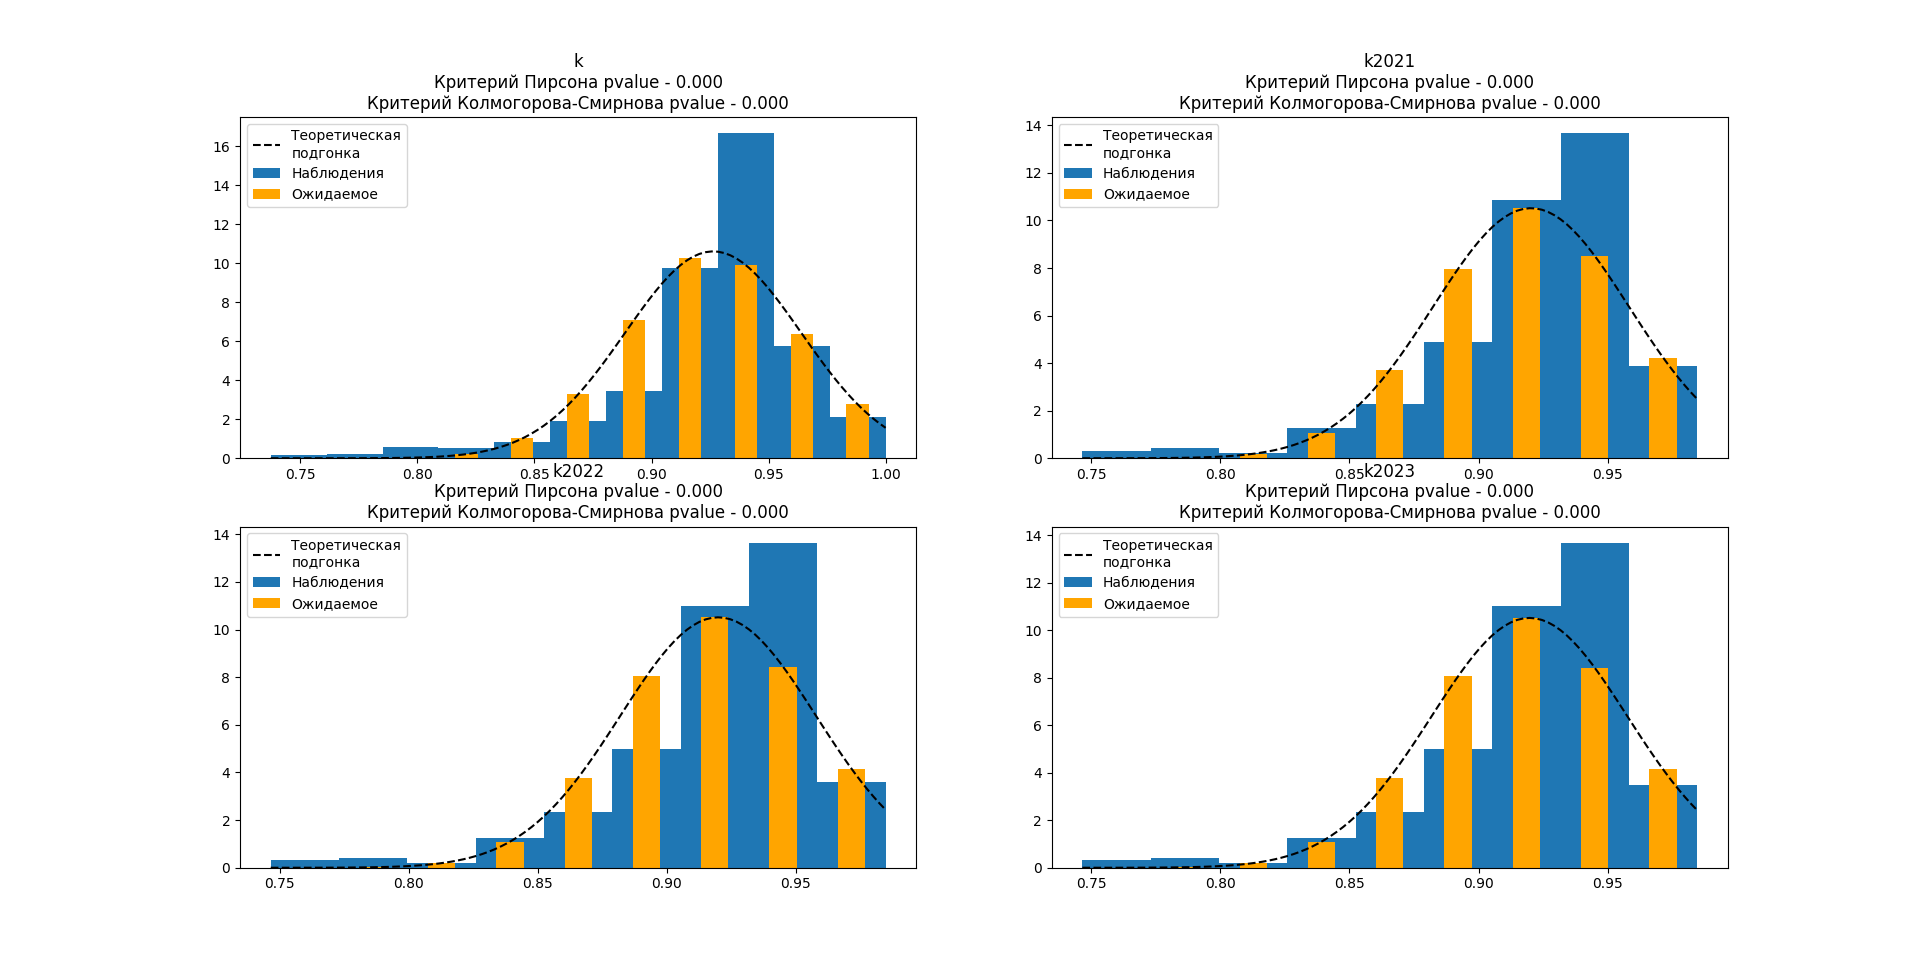
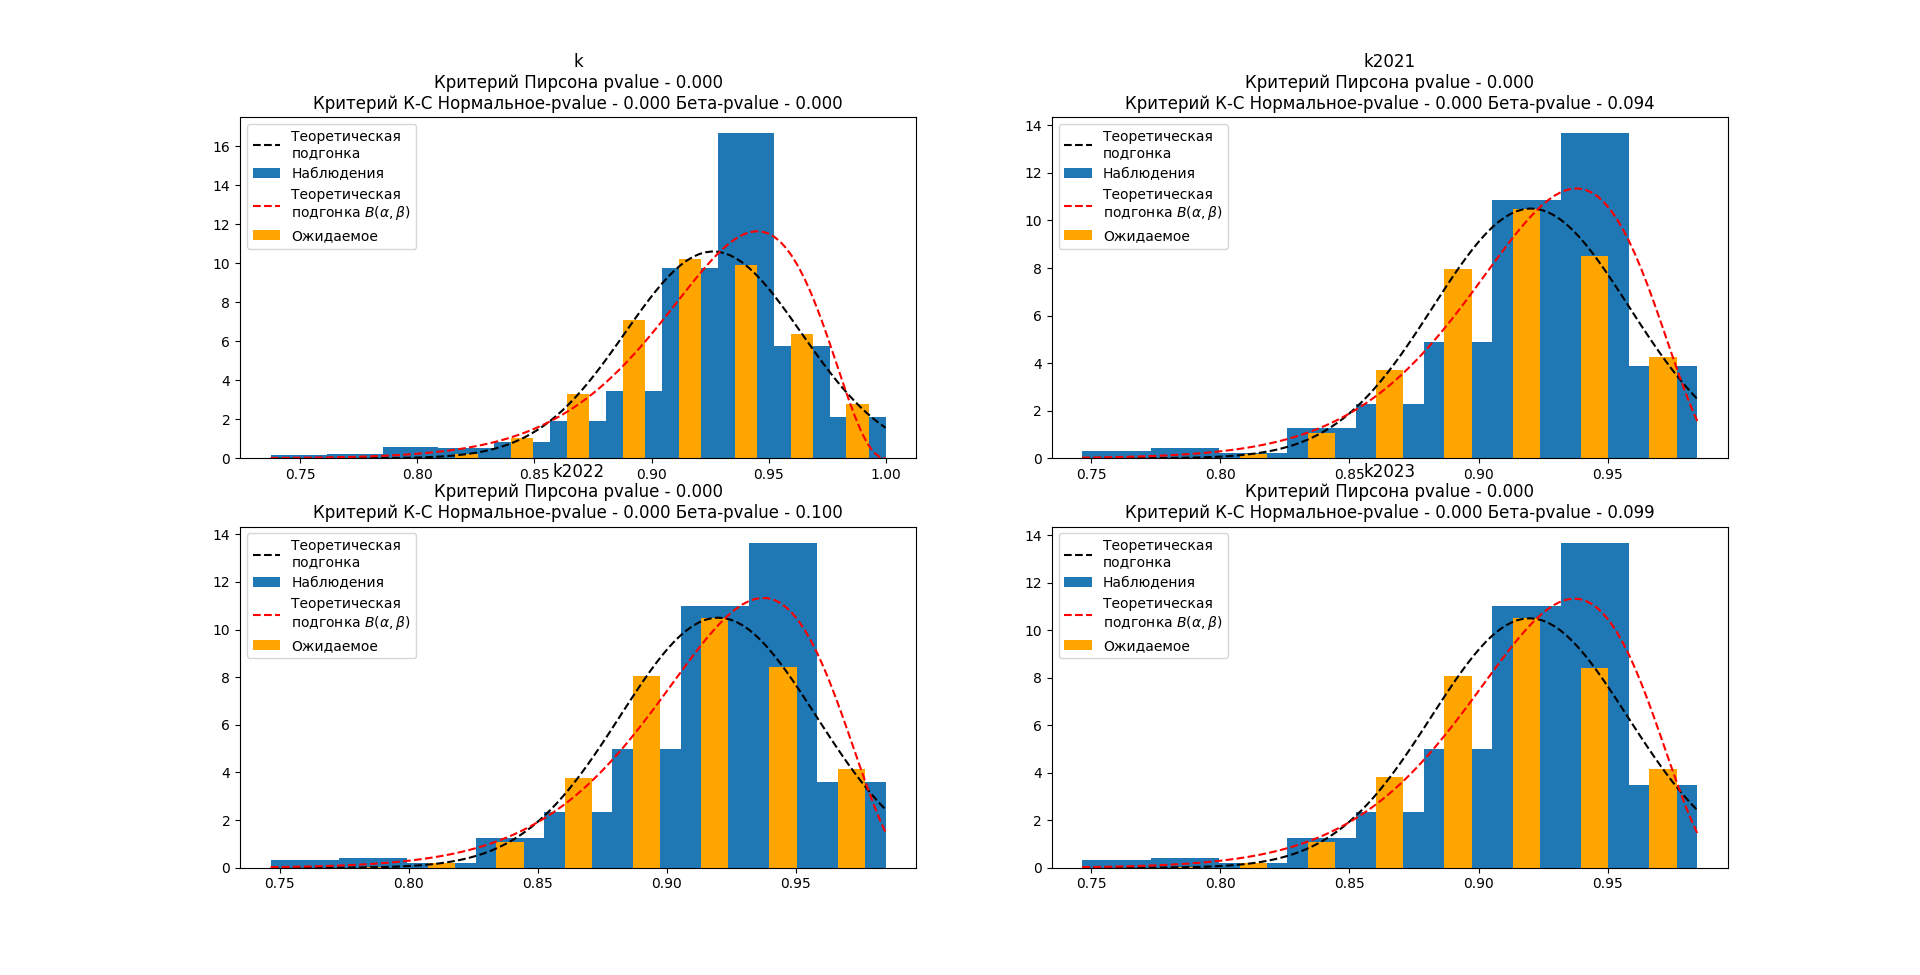
refactored code. Added PDFNormal PDFBeta and DataContainer classes

diff --git a/norm_test.py b/norm_test.py
@@ -2,13 +2,70 @@ import scipy.stats as sps
 import numpy as np
 import matplotlib.pyplot as plt
 
+
+class PDFNormal:
+    @staticmethod
+    def estimate_params(data):
+        return (np.mean(data), np.std(data, ddof=1))
+    
+    def __init__(self, data):
+        self.mu, self.std = PDFNormal.estimate_params(data)
+    
+    def pdf(self, x):
+        return sps.norm.pdf(x, loc=self.mu, scale=self.std)
+
+class PDFBeta:
+    @staticmethod
+    def estimate_params(data):
+        mu = np.mean(data)
+        var = np.var(data, ddof=1)
+        r = -(mu ** 2 - mu + var)/var
+        alpha = mu * r
+        beta = (1-mu) * r
+        return (alpha, beta)
+    
+    def __init__(self, data):
+        self.a, self.b = PDFBeta.estimate_params(data)
+
+    def pdf(self, x):
+        return sps.beta.pdf(x, self.a, self.b)
+
+class DataContainer:
+    def __init__(self, data):
+        self.data = data
+        self.pvalues = dict()
+
+    def testHypotheses(self, normal: PDFNormal, beta: PDFBeta) -> None:
+        _, self.pvalues['chisquare'] = sps.normaltest(self.data)
+        _, self.pvalues['norm_ks'] = sps.kstest(self.data, 'norm', [normal.mu, normal.std])
+        _, self.pvalues['beta_ks'] = sps.kstest(self.data, 'beta', [beta.a, beta.b])
+        
+    def pvals_info(self, label: str):
+        if len(self.pvalues) == 0:
+            return ''
+        
+        names = {
+            'chisquare': 'Критерий Пирсона',
+            'norm_ks': 'Критерий К-С Нормальное распр.',
+            'beta_ks': 'Критерий К-С Бета-распр.'
+        }
+        res = f'{label:<30} '
+        for test_name, pvalue in self.pvalues.items():
+            res += f'{names[test_name]}: {pvalue:<8.3f} '
+        
+        return res
+
+
 def plot_fit(data, title="", isSubplot=False):
-    data_mean = np.mean(data)
-    data_std = np.std(data)
+    stat_box = DataContainer(data)
+    expected_normal = PDFNormal(data)
+    expected_beta = PDFBeta(data)
+
+    stat_box.testHypotheses(expected_normal, expected_beta)
 
     #Теоретическое распределение
     x = np.linspace(min(data), max(data), 100)
-    plt.plot(x, sps.norm.pdf(x, loc=data_mean, scale=data_std), 'k--', label='Теоретическая\nподгонка')
+    plt.plot(x, expected_normal.pdf(x), 'k--', label='Теоретическая\nподгонка')
     
     #Диаграмма накопленных частот
     (observed, bins, _) = plt.hist(data, bins = round(1 + 3.2*np.log10(len(data))), density=True, label='Наблюдения')
@@ -17,37 +74,16 @@ def plot_fit(data, title="", isSubplot=False):
     bin_width = bins[1] - bins[0]
 
     #Ожидаемая диаграмма накопленных частот
-    expected = np.array([ sps.norm.pdf(bin_c, loc=data_mean, scale=data_std) for bin_c in bin_centers ])
-
-    _, chisquare_pvalue = chisquare_test(data)
-    _, ks_pvalue = ks_test(data)
-    _, beta_ks_pvalue, alpha, beta = beta_ks_test(data)
-    plt.plot(x, sps.beta.pdf(x, alpha, beta), 'r--', label='Теоретическая\nподгонка $B(\\alpha, \\beta)$')
-
-    plt.bar(bin_centers, height=expected, width=0.4*bin_width, color='orange', label='Ожидаемое')
+    expected_hist = np.array([ expected_normal.pdf(bin_c) for bin_c in bin_centers ])
+    plt.plot(x, expected_beta.pdf(x), 'r--', label='Теоретическая\nподгонка $B(\\alpha, \\beta)$')
+    plt.bar(bin_centers, height=expected_hist, width=0.4*bin_width, color='orange', label='Ожидаемое')
     plt.legend()
-    plt.title(f'{title}\nКритерий Пирсона pvalue - {chisquare_pvalue:.3f}\nКритерий К-С Нормальное-pvalue - {ks_pvalue:.3f} Бета-pvalue - {beta_ks_pvalue:.3f}')
+    plt.title(f"{title}\nКритерий Пирсона pvalue - {stat_box.pvalues['chisquare']:.3f}\nКритерий К-С Нормальное-pvalue - {stat_box.pvalues['norm_ks']:.3f} Бета-pvalue - {stat_box.pvalues['beta_ks']:.3f}")
     if not isSubplot:
         plt.show()
     
-    return (chisquare_pvalue, ks_pvalue, beta_ks_pvalue)
+    return stat_box
 
-def chisquare_test(data):
-    return sps.normaltest(data)
-
-def ks_test(data):
-    mu = np.mean(data)
-    std = np.std(data)
-    scaled_data = (data - mu)/std
-    return sps.kstest(scaled_data, sps.norm.cdf)
-
-def beta_ks_test(data):
-    mu = np.mean(data)
-    var = np.var(data, ddof=1)
-    r = -(mu ** 2 - mu + var)/var
-    alpha = mu * r
-    beta = (1-mu) * r
-    return sps.kstest(data, 'beta', [alpha, beta])[:2]+ (alpha, beta)
 
 def main():
     #data = sps.norm.rvs(size=100, loc=12, scale=13)   

diff --git a/excel_worker.py b/excel_worker.py
@@ -57,8 +57,8 @@ def main():
         for i, col in enumerate(chunk):
             k = get_col_no_blank(df, col)
             plt.subplot(2,2, i+1)
-            chisquare_pvalue, ks_pvalue, beta_ks_pvalue = norm_test.plot_fit(k, col, isSubplot=True)
-            print(f'{col:<30} Критерий пирсона: {chisquare_pvalue:<8.3f} Критерий К-С: Нормальное - {ks_pvalue:<8.3f}, Бета - {beta_ks_pvalue:<8.3f}')
+            stat_box = norm_test.plot_fit(k, col, isSubplot=True)
+            print(stat_box.pvals_info(col))
         plt.show()
         print()
 

diff --git a/README.md b/README.md
@@ -1,4 +1,4 @@
-## Программа проверки нормальности по критерию согласия Пирсона и критерию Лилиефорса (модификация критерия Колмогорова-Смирнова)
+## Программа для проверки критериев согласия из excel
 
 ### Установка
 
@@ -13,16 +13,24 @@ pip install -r requirements.txt
 
 ### **norm_test.py**
 
-Файл с функциями для проверки нормальности по критерию Пирсона и Лилиефорса.
+Файл с функциями для проверки нормальности по критерию Пирсона и Лилиефорса и соответствия выборки бета-распределению по критерию Колмогорова-Смирнова.
 
-*chisquare_test(data)* $-$ Получение статистики и pvalue по критерию согласия Пирсона, где ожидаемое распределение - нормальное.
-- Возвращает *statistic* (значение статистики), *pvalue*.
+**class PDFNormal** $-$ Класс для работы с подгонкой под нормальной распределение:
+    
+* *@staticmethod estimate_params(data)* $-$ возвращает точечную оценку математического ожидания и среднеквадратичного отклонения;
 
-*ks_test(data)* $-$ Получение статистики и pvalue по критерию Лилиефорса, где ожидаемое распределение - нормальное.
-- Возвращает *statistic* (значение статистики), *pvalue*.
-  
-*plot_fit(data, title="", isSubplot=False)* $-$ Строит диаграмму накопленных частот для выборки *data*, подогнанное теоретическое нормальное распределение и ожидаемую диаграмму накопленных частот.
-- Возвращает *chisquare_pvalue* (pvalue по критерию Пирсона), *ks_pvalue* (pvalue по критерию Лилиефорса)
+* *pdf(self, x)* $-$ возвращает значение плотности вероятности в точке x для подгонки.
+
+**class PDFBeta** $-$ Класс для работы с подгонкой под бета-распределение:
+* *@staticmethod estimate_params(data)* $-$ возвращает точечные оценки параметров бета-распределения, полученные через точечные оценки математического и дисперсии;
+* *pdf(self, x)* $-$ возвращает значение плотности вероятности в точке x для подгонки.
+
+**class DataContainer** $-$ класс для хранения выборки и полученных pvalue по различным критериям согласия:
+* *testHypotheses(self, normal: PDFNormal, beta: PDFBeta) -> None* $-$ проверка гипотезы о соответствии выборки нормальному распределению по критерию Пирсона и критерию Лилиефорса, проверка гипотезы о соответствии выборки бета-распределению по критерию Колмогорова-Смирнова. Сохранение значений pvalue в объекте класса;
+* *pvals_info(self, label: str)* $-$ формирование строки для печати информации о результатах критериев согласия.
+
+*plot_fit(data, title="", isSubplot=False)* $-$ Строит диаграмму накопленных частот для выборки *data*, подогнанное теоретическое нормальное и бета распределения и ожидаемую нормальную диаграмму накопленных частот.
+- Возвращает объект класса **DataContainer** с результатами проверки критериев согласия.
 - Дополнительные параметры: 
     - *title* - Текст, который будет добавлен в заголовок графика;
     - *isSubplot* - Если True, то функция не вызывает *plt.plot()*. Используется для построения нескольких графиков на одном.
@@ -34,35 +42,32 @@ pip install -r requirements.txt
 **Пример работы программы**
 
 ```
-$ python test.py
-1. Нормальные распределения. Объём выборки 100
-Критерий Пирсона:                  97/100 раз критерий выполняется
-Критерий Колмогорова-Смирнова:     100/100 раз критерий выполняется
+$ python excel_worker.py
+Введите название (или путь) файла Excel с данными: data.xlsm
 
-2. Экспоненциальные распределения. Объём выборки 100
-Критерий Пирсона:                  0/100 раз критерий выполняется
-Критерий Колмогорова-Смирнова:     5/100 раз критерий выполняется
+Открываем файл data.xlsm
+Найдены следующие листы: Проверка нормальности; Лист1; Лист2
+Введите название листа, откуда брать данные: Проверка нормальности
+Выбран лист Проверка нормальности
 
-3. Экспоненциальные распределения. Объём выборки 1000
-Критерий Пирсона:                  0/100 раз критерий выполняется
-Критерий Колмогорова-Смирнова:     0/100 раз критерий выполняется
+Парсим данные
+Найдены следующие столбцы: k k2021 k2022 k2023 k2022' k2021' norm
+Строим графики. Если pvalue > 0.05, значит критерий на нормальность выполняется
+1 график из 2
+k                              Критерий Пирсона: 0.000    Критерий К-С Нормальное распр.: 0.000    Критерий К-С Бета-распр.: 0.000    
+k2021                          Критерий Пирсона: 0.000    Критерий К-С Нормальное распр.: 0.000    Критерий К-С Бета-распр.: 0.094    
+k2022                          Критерий Пирсона: 0.000    Критерий К-С Нормальное распр.: 0.000    Критерий К-С Бета-распр.: 0.100    
+k2023                          Критерий Пирсона: 0.000    Критерий К-С Нормальное распр.: 0.000    Критерий К-С Бета-распр.: 0.099    
 
-4. Равномерные распределения. Объём выборки 100
-Критерий Пирсона:                  0/100 раз критерий выполняется
-Критерий Колмогорова-Смирнова:     10/100 раз критерий выполняется
-
-5. Равномерные распределения. Объём выборки 1000
-Критерий Пирсона:                  0/100 раз критерий выполняется
-Критерий Колмогорова-Смирнова:     0/100 раз критерий выполняется
-
-6. Распределение Коши. Объём выборки 100
-Критерий Пирсона:                  0/100 раз критерий выполняется
-Критерий Колмогорова-Смирнова:     0/100 раз критерий выполняется
+2 график из 2
+k2022'                         Критерий Пирсона: 0.000    Критерий К-С Нормальное распр.: 0.000    Критерий К-С Бета-распр.: 0.124    
+k2021'                         Критерий Пирсона: 0.000    Критерий К-С Нормальное распр.: 0.000    Критерий К-С Бета-распр.: 0.134    
+norm                           Критерий Пирсона: 0.377    Критерий К-С Нормальное распр.: 0.959    Критерий К-С Бета-распр.: nan 
 ```
 
 ### **excel_worker.py**
 
-Программа для проверки нормальности выборок, записанных в Excel файле. Данные для проверки на листе располагаются в левой верхней части листа. Первая строка используется для названий выборок. Каждая выборка располагается в одном столбце.
+Программа для проверки нормальности и соответствия бета-распределению выборок, записанных в Excel файле. Данные для проверки на листе располагаются в левой верхней части листа. Первая строка используется для названий выборок. Каждая выборка располагается в одном столбце.
 
 **Пример работы программы**
 
